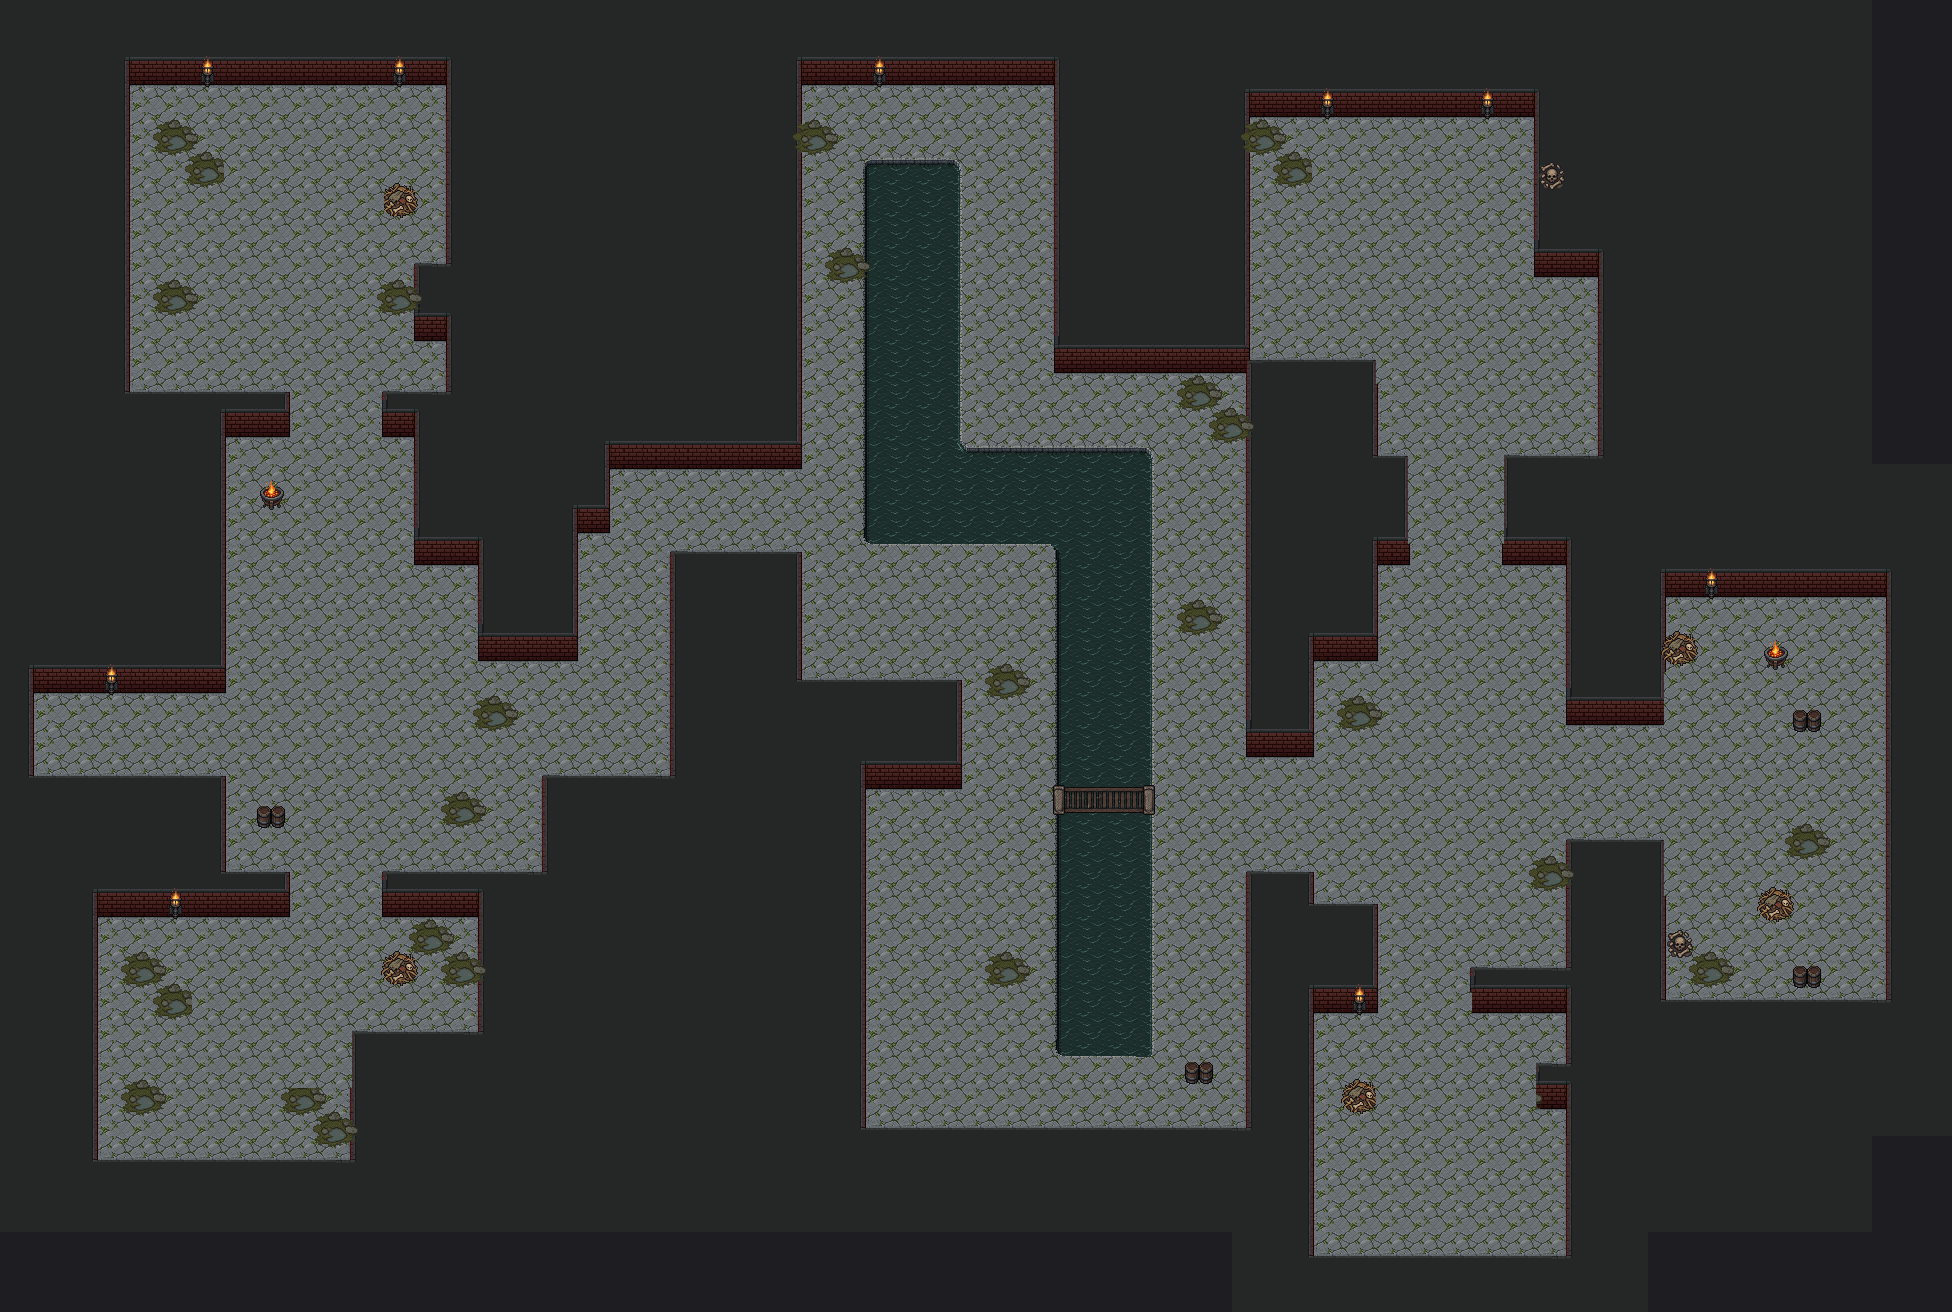
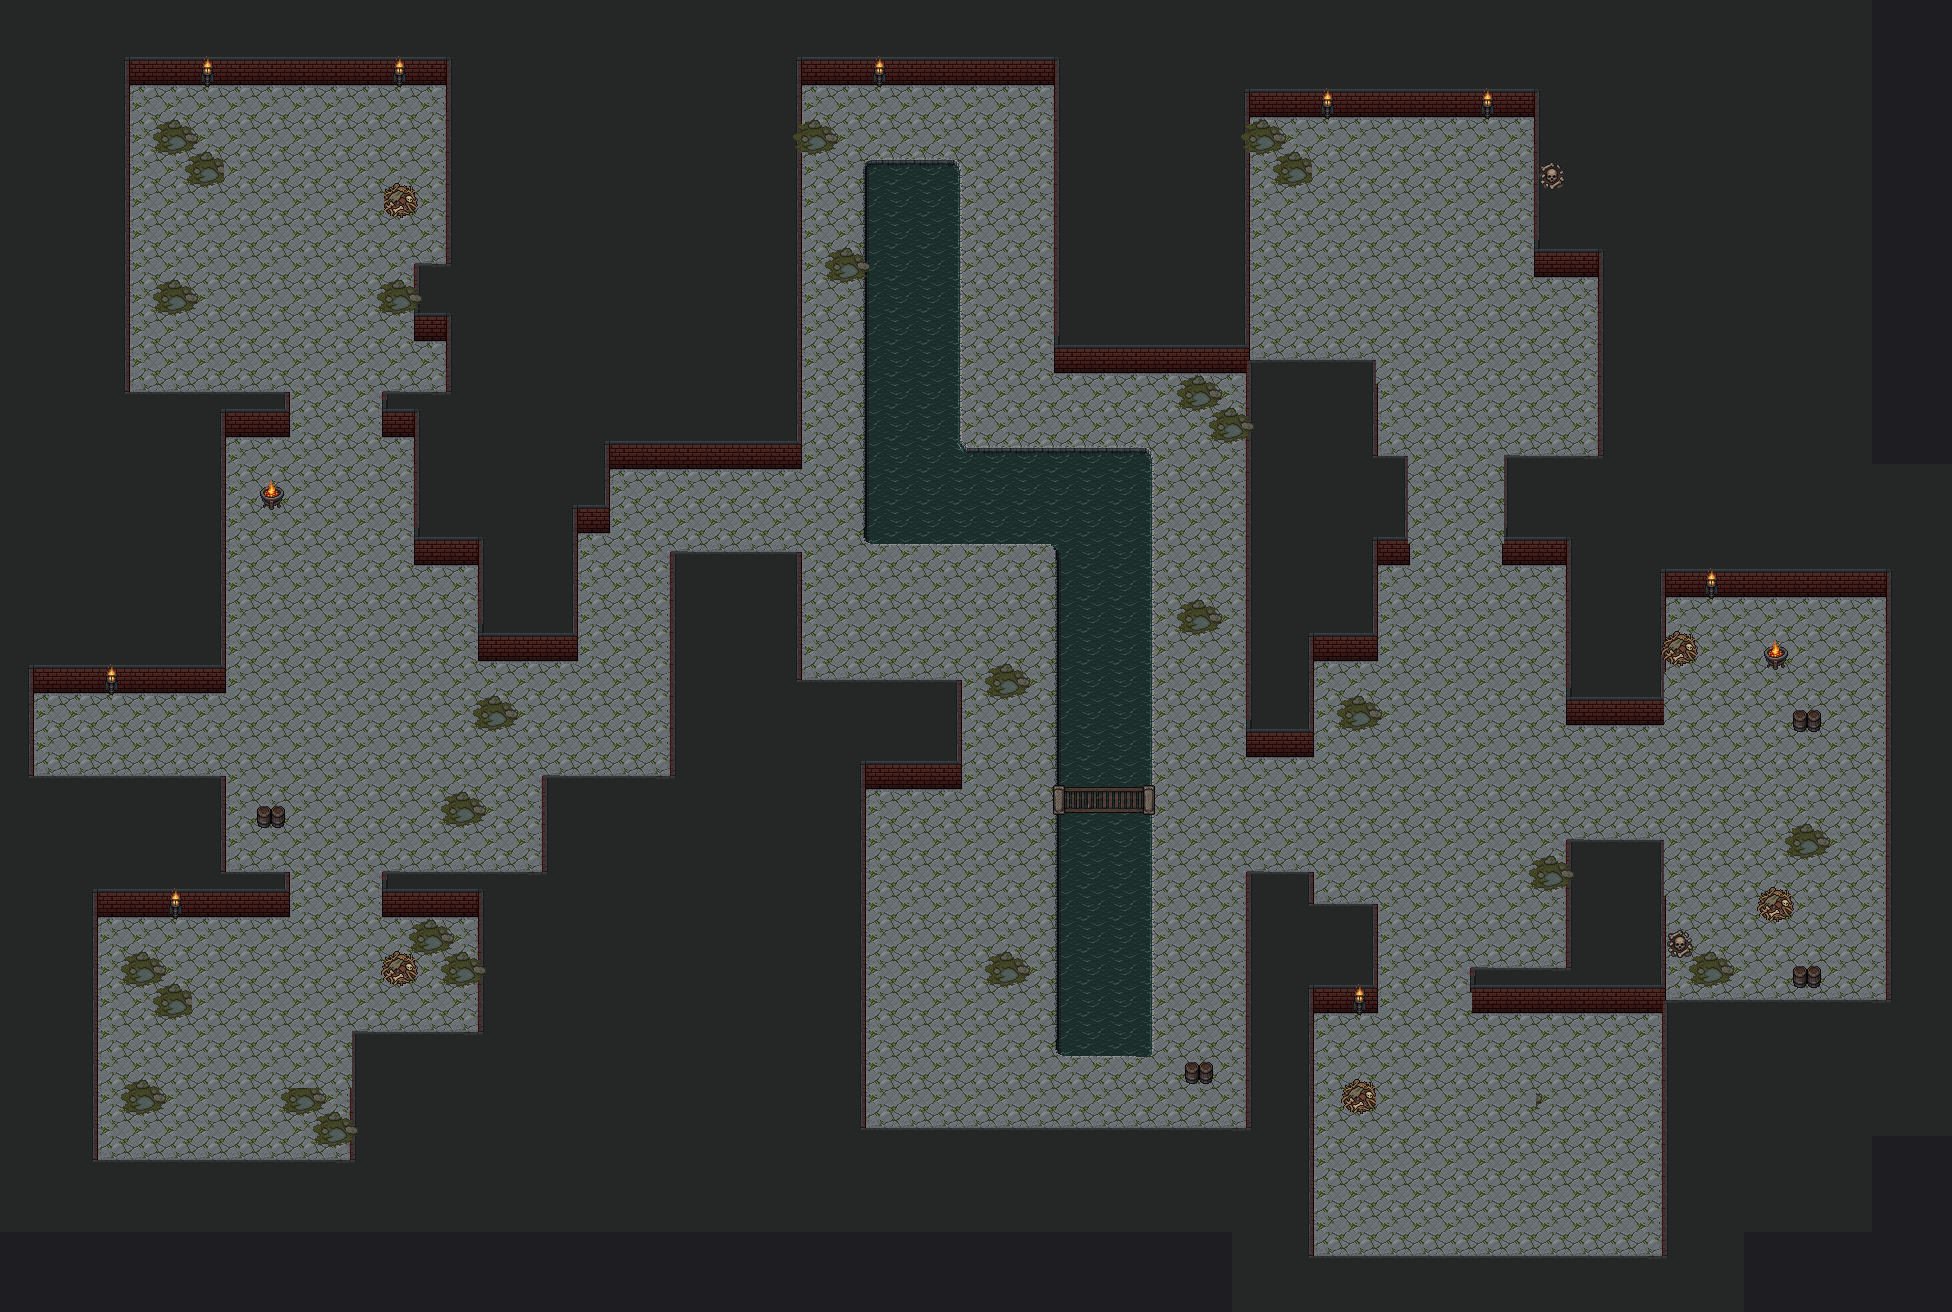
proto(hunt-sim): SE room 3 columns wider; ranged leave out-of-room spots

Changed region(s): [[0.7812, 0.75, 0.875, 0.9688]]

diff --git a/prototypes/hunt-sim/grid.js b/prototypes/hunt-sim/grid.js
@@ -1,1 +1,1 @@
-window.GRID=['tttttttttttttttttttttttttttttttttttttttttttttttttttttttttttt','tttooooooooootttttttttttooooooootttttttttttttttttttttttttttt','tttwwwwwwwwwwtttttttttttwwwwwwwwttttttooooooooottttttttttttt','tttwwwwwwwwwwtttttttttttwwwwwwwwttttttwwwwwwwwwttttttttttttt','tttwwwwwwwwwwtttttttttttwwdddwwwttttttwwwwwwwwwttttttttttttt','tttwwwwwwwwwwtttttttttttwwdddwwwttttttwwwwwwwwwttttttttttttt','tttwwwwwwwwwwtttttttttttwwdddwwwttttttwwwwwwwwwttttttttttttt','tttwwwwwwwwwttttttttttttwwdddwwwttttttwwwwwwwwwoottttttttttt','tttwwwwwwwwwttttttttttttwwdddwwwttttttwwwwwwwwwwwttttttttttt','tttwwwwwwwwwotttttttttttwwdddwwwttttttwwwwwwwwwwwttttttttttt','tttwwwwwwwwwwtttttttttttwwdddwwwoooooottttwwwwwwwttttttttttt','ttttttttwwwtttttttttttttwwdddwwwwwwwwwttttwwwwwwwttttttttttt','ttttttoowwwottttttttttttwwdddwwwwwwwwwttttwwwwwwwttttttttttt','ttttttwwwwwwttttttoooooowwdddddddddwwwtttttwwwtttttttttttttt','ttttttwwwwwwttttttwwwwwwwwdddddddddwwwtttttwwwtttttttttttttt','ttttttwwwwwwtttttowwwwwwwwdddddddddwwwtttttwwwtttttttttttttt','ttttttwwwwwwootttwwwttttwwwwwwwwdddwwwttttowwwootttttttttttt','ttttttwwwwwwwwtttwwwttttwwwwwwwwdddwwwttttwwwwwwtttooooooott','ttttttwwwwwwwwtttwwwttttwwwwwwwwdddwwwttttwwwwwwtttwwwwwwwtt','ttttttwwwwwwwwooowwwttttwwwwwwwwdddwwwttoowwwwwwtttwwwwwwwtt','oooooowwwwwwwwwwwwwwtttttttttwwwdddwwwttwwwwwwwwtttwwwwwwwtt','wwwwwwwwwwwwwwwwwwwwtttttttttwwwdddwwwttwwwwwwwwooowwwwwwwtt','wwwwwwwwwwwwwwwwwwwwtttttttttwwwdddwwwoowwwwwwwwwwwwwwwwwwtt','ttttttwwwwwwwwwwttttttttttooowwwdddwwwwwwwwwwwwwwwwwwwwwwwtt','ttttttwwwwwwwwwwttttttttttwwwwwwbbbwwwwwwwwwwwwwwwwwwwwwwwtt','ttttttwwwwwwwwwwttttttttttwwwwwwdddwwwwwwwwwwwwwtttwwwwwwwtt','ttttttttwwwtttttttttttttttwwwwwwdddwwwttwwwwwwwwtttwwwwwwwtt','ttoooooowwwooottttttttttttwwwwwwdddwwwttttwwwwwwtttwwwwwwwtt','ttwwwwwwwwwwwwttttttttttttwwwwwwdddwwwttttwwwwwwtttwwwwwwwtt','ttwwwwwwwwwwwwttttttttttttwwwwwwdddwwwttttwwwttttttwwwwwwwtt','ttwwwwwwwwwwwwttttttttttttwwwwwwdddwwwttoowwwoootttttttttttt','ttwwwwwwwwttttttttttttttttwwwwwwdddwwwttwwwwwwwwtttttttttttt','ttwwwwwwwwttttttttttttttttwwwwwwwwwwwwttwwwwwwwttttttttttttt','ttwwwwwwwwttttttttttttttttwwwwwwwwwwwwttwwwwwwwotttttttttttt','ttwwwwwwwwttttttttttttttttttttttttttttttwwwwwwwwtttttttttttt','ttttttttttttttttttttttttttttttttttttttttwwwwwwwwtttttttttttt','ttttttttttttttttttttttttttttttttttttttttwwwwwwwwtttttttttttt','ttttttttttttttttttttttttttttttttttttttttwwwwwwwwtttttttttttt','tttttttttttttttttttttttttttttttttttttttttttttttttttttttttttt','tttttttttttttttttttttttttttttttttttttttttttttttttttttttttttt'];
+window.GRID=['tttttttttttttttttttttttttttttttttttttttttttttttttttttttttttt','tttooooooooootttttttttttooooooootttttttttttttttttttttttttttt','tttwwwwwwwwwwtttttttttttwwwwwwwwttttttooooooooottttttttttttt','tttwwwwwwwwwwtttttttttttwwwwwwwwttttttwwwwwwwwwttttttttttttt','tttwwwwwwwwwwtttttttttttwwdddwwwttttttwwwwwwwwwttttttttttttt','tttwwwwwwwwwwtttttttttttwwdddwwwttttttwwwwwwwwwttttttttttttt','tttwwwwwwwwwwtttttttttttwwdddwwwttttttwwwwwwwwwttttttttttttt','tttwwwwwwwwwttttttttttttwwdddwwwttttttwwwwwwwwwoottttttttttt','tttwwwwwwwwwttttttttttttwwdddwwwttttttwwwwwwwwwwwttttttttttt','tttwwwwwwwwwotttttttttttwwdddwwwttttttwwwwwwwwwwwttttttttttt','tttwwwwwwwwwwtttttttttttwwdddwwwoooooottttwwwwwwwttttttttttt','ttttttttwwwtttttttttttttwwdddwwwwwwwwwttttwwwwwwwttttttttttt','ttttttoowwwottttttttttttwwdddwwwwwwwwwttttwwwwwwwttttttttttt','ttttttwwwwwwttttttoooooowwdddddddddwwwtttttwwwtttttttttttttt','ttttttwwwwwwttttttwwwwwwwwdddddddddwwwtttttwwwtttttttttttttt','ttttttwwwwwwtttttowwwwwwwwdddddddddwwwtttttwwwtttttttttttttt','ttttttwwwwwwootttwwwttttwwwwwwwwdddwwwttttowwwootttttttttttt','ttttttwwwwwwwwtttwwwttttwwwwwwwwdddwwwttttwwwwwwtttooooooott','ttttttwwwwwwwwtttwwwttttwwwwwwwwdddwwwttttwwwwwwtttwwwwwwwtt','ttttttwwwwwwwwooowwwttttwwwwwwwwdddwwwttoowwwwwwtttwwwwwwwtt','oooooowwwwwwwwwwwwwwtttttttttwwwdddwwwttwwwwwwwwtttwwwwwwwtt','wwwwwwwwwwwwwwwwwwwwtttttttttwwwdddwwwttwwwwwwwwooowwwwwwwtt','wwwwwwwwwwwwwwwwwwwwtttttttttwwwdddwwwoowwwwwwwwwwwwwwwwwwtt','ttttttwwwwwwwwwwttttttttttooowwwdddwwwwwwwwwwwwwwwwwwwwwwwtt','ttttttwwwwwwwwwwttttttttttwwwwwwbbbwwwwwwwwwwwwwwwwwwwwwwwtt','ttttttwwwwwwwwwwttttttttttwwwwwwdddwwwwwwwwwwwwwtttwwwwwwwtt','ttttttttwwwtttttttttttttttwwwwwwdddwwwttwwwwwwwwtttwwwwwwwtt','ttoooooowwwooottttttttttttwwwwwwdddwwwttttwwwwwwtttwwwwwwwtt','ttwwwwwwwwwwwwttttttttttttwwwwwwdddwwwttttwwwwwwtttwwwwwwwtt','ttwwwwwwwwwwwwttttttttttttwwwwwwdddwwwttttwwwttttttwwwwwwwtt','ttwwwwwwwwwwwwttttttttttttwwwwwwdddwwwttoowwwoooooottttttttt','ttwwwwwwwwttttttttttttttttwwwwwwdddwwwttwwwwwwwwwwwttttttttt','ttwwwwwwwwttttttttttttttttwwwwwwwwwwwwttwwwwwwwwwwwttttttttt','ttwwwwwwwwttttttttttttttttwwwwwwwwwwwwttwwwwwwwwwwwttttttttt','ttwwwwwwwwttttttttttttttttttttttttttttttwwwwwwwwwwwttttttttt','ttttttttttttttttttttttttttttttttttttttttwwwwwwwwwwwttttttttt','ttttttttttttttttttttttttttttttttttttttttwwwwwwwwwwwttttttttt','ttttttttttttttttttttttttttttttttttttttttwwwwwwwwwwwttttttttt','tttttttttttttttttttttttttttttttttttttttttttttttttttttttttttt','tttttttttttttttttttttttttttttttttttttttttttttttttttttttttttt'];

diff --git a/prototypes/hunt-sim/sim.js b/prototypes/hunt-sim/sim.js
@@ -33,7 +33,7 @@ const CONFIG = {
     { name: 'SW room',      room: [2, 27, 13, 34], spawns: [['slime', 6, 31], ['slime', 7, 30], ['slime', 8, 31]] },
     { name: 'Channel west', room: [26, 24, 37, 34], spawns: [['bat', 30, 27], ['bat', 31, 29]] },
     { name: 'NE room',      room: [38, 2, 48, 12], spawns: [['spider', 41, 5], ['spider', 43, 5], ['spider', 40, 6], ['bat', 42, 4], ['bat', 44, 6]] },
-    { name: 'SE room',      room: [40, 30, 47, 37], spawns: [['kobold', 43, 35], ['kobold', 44, 34], ['kobold', 45, 35]] },
+    { name: 'SE room',      room: [40, 30, 50, 37], spawns: [['kobold', 43, 35], ['kobold', 44, 34], ['kobold', 45, 35]] },
     { name: 'Rat King',     room: [51, 17, 57, 29], spawns: [['ratking', 55, 23], ['rat', 54, 21], ['rat', 54, 25]] },
   ],
   start: [[0, 21], [0, 20], [0, 22], [1, 21]],
@@ -364,7 +364,7 @@ function rangedPos(u, k, mons) {
     for (const m of mons) s -= Math.min(eu({ x, y }, m), 6) * 0.15;
     return s;
   };
-  const curGood = ok(u.x, u.y) && !nearMon && los(u, k) && u.t >= 1;
+  const curGood = ok(u.x, u.y) && !nearMon && los(u, k) && u.t >= 1 && inRoom(S.pull.pocket, u.x, u.y);
   if (curGood && !u.path.length) return;
   let best = null, bs = 1e9;
   for (let y = k.y - 8; y <= k.y + 8; y++) for (let x = k.x - 8; x <= k.x + 8; x++) {
